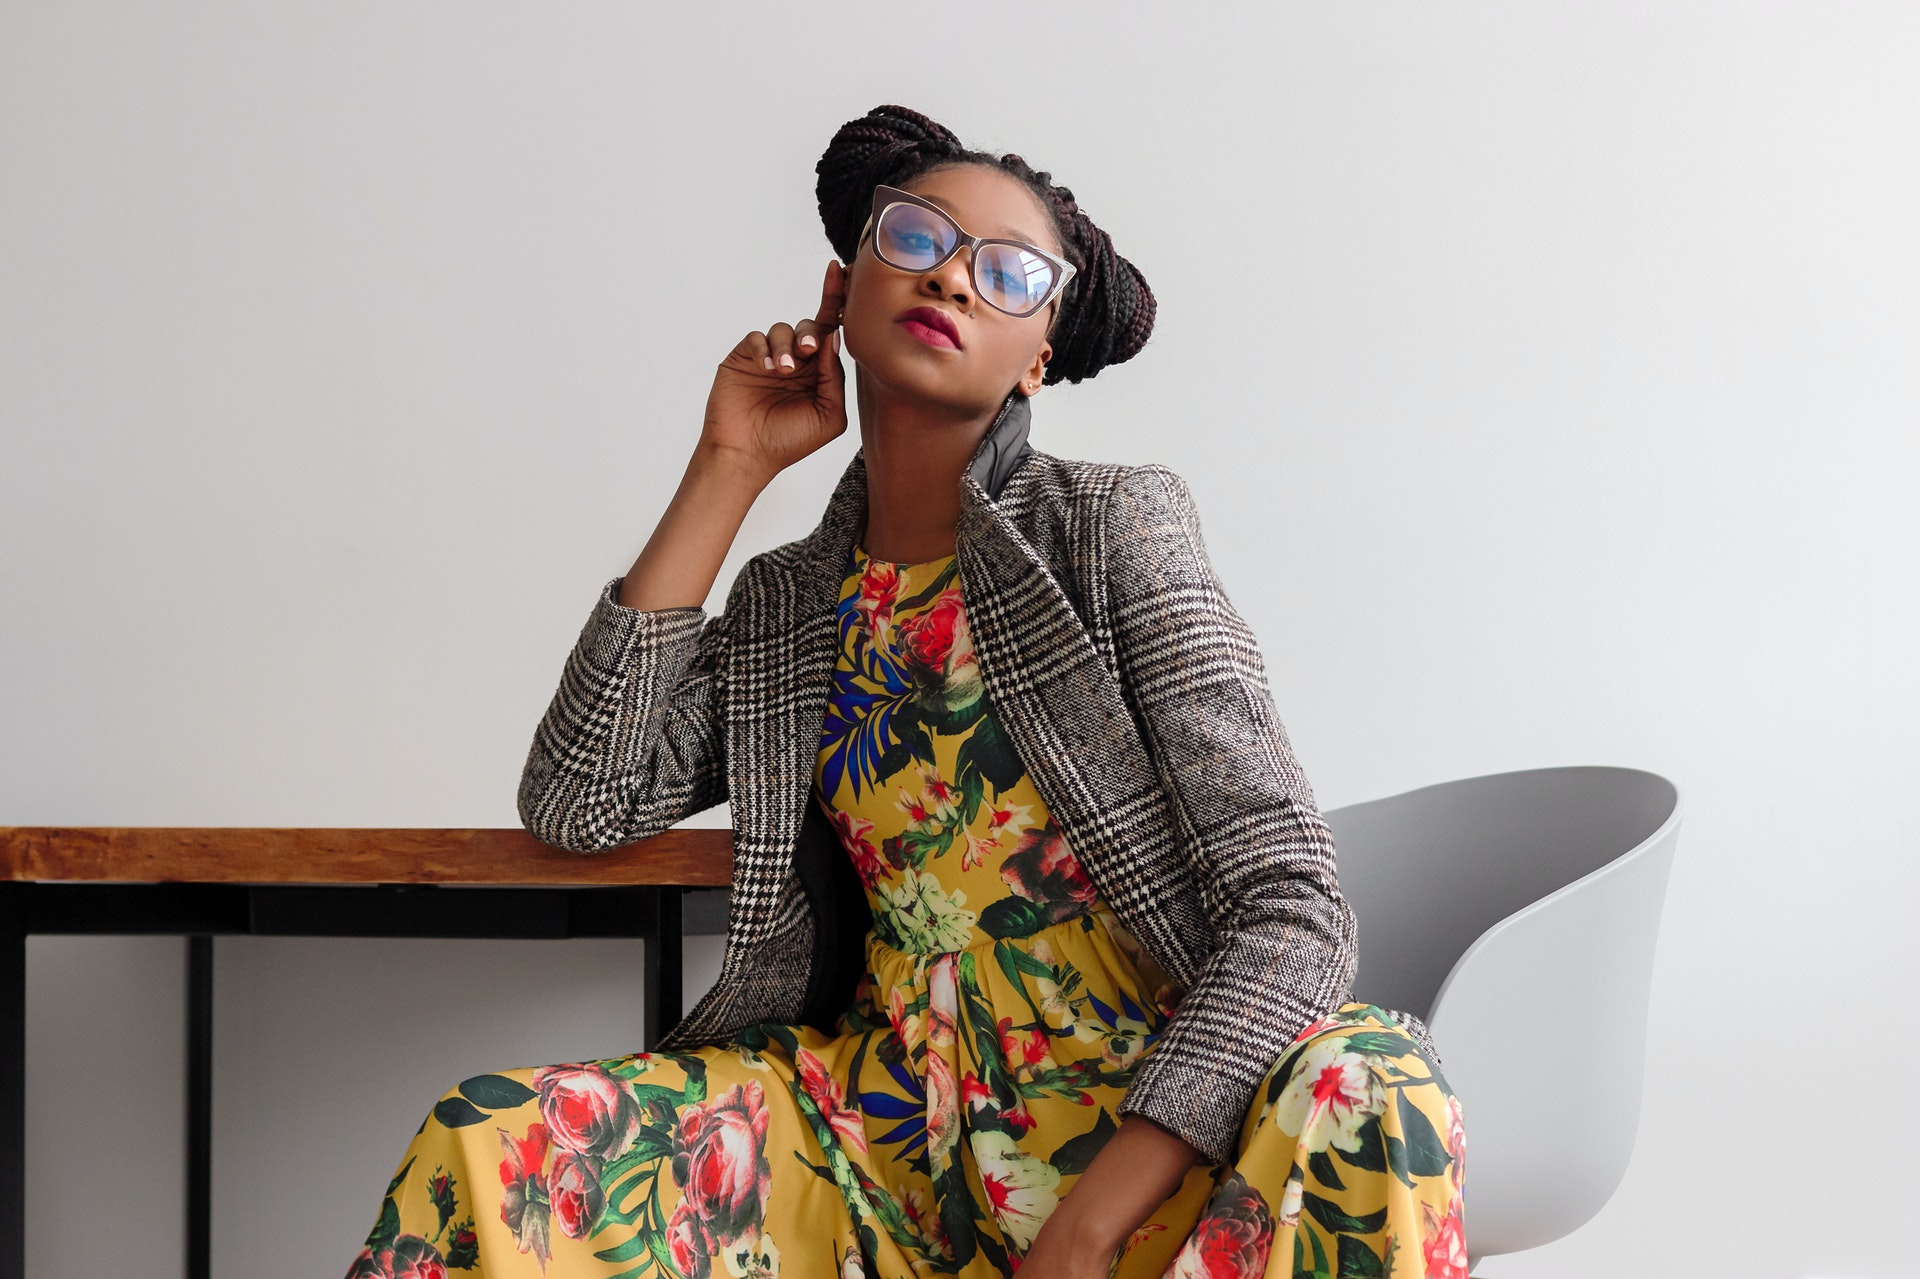
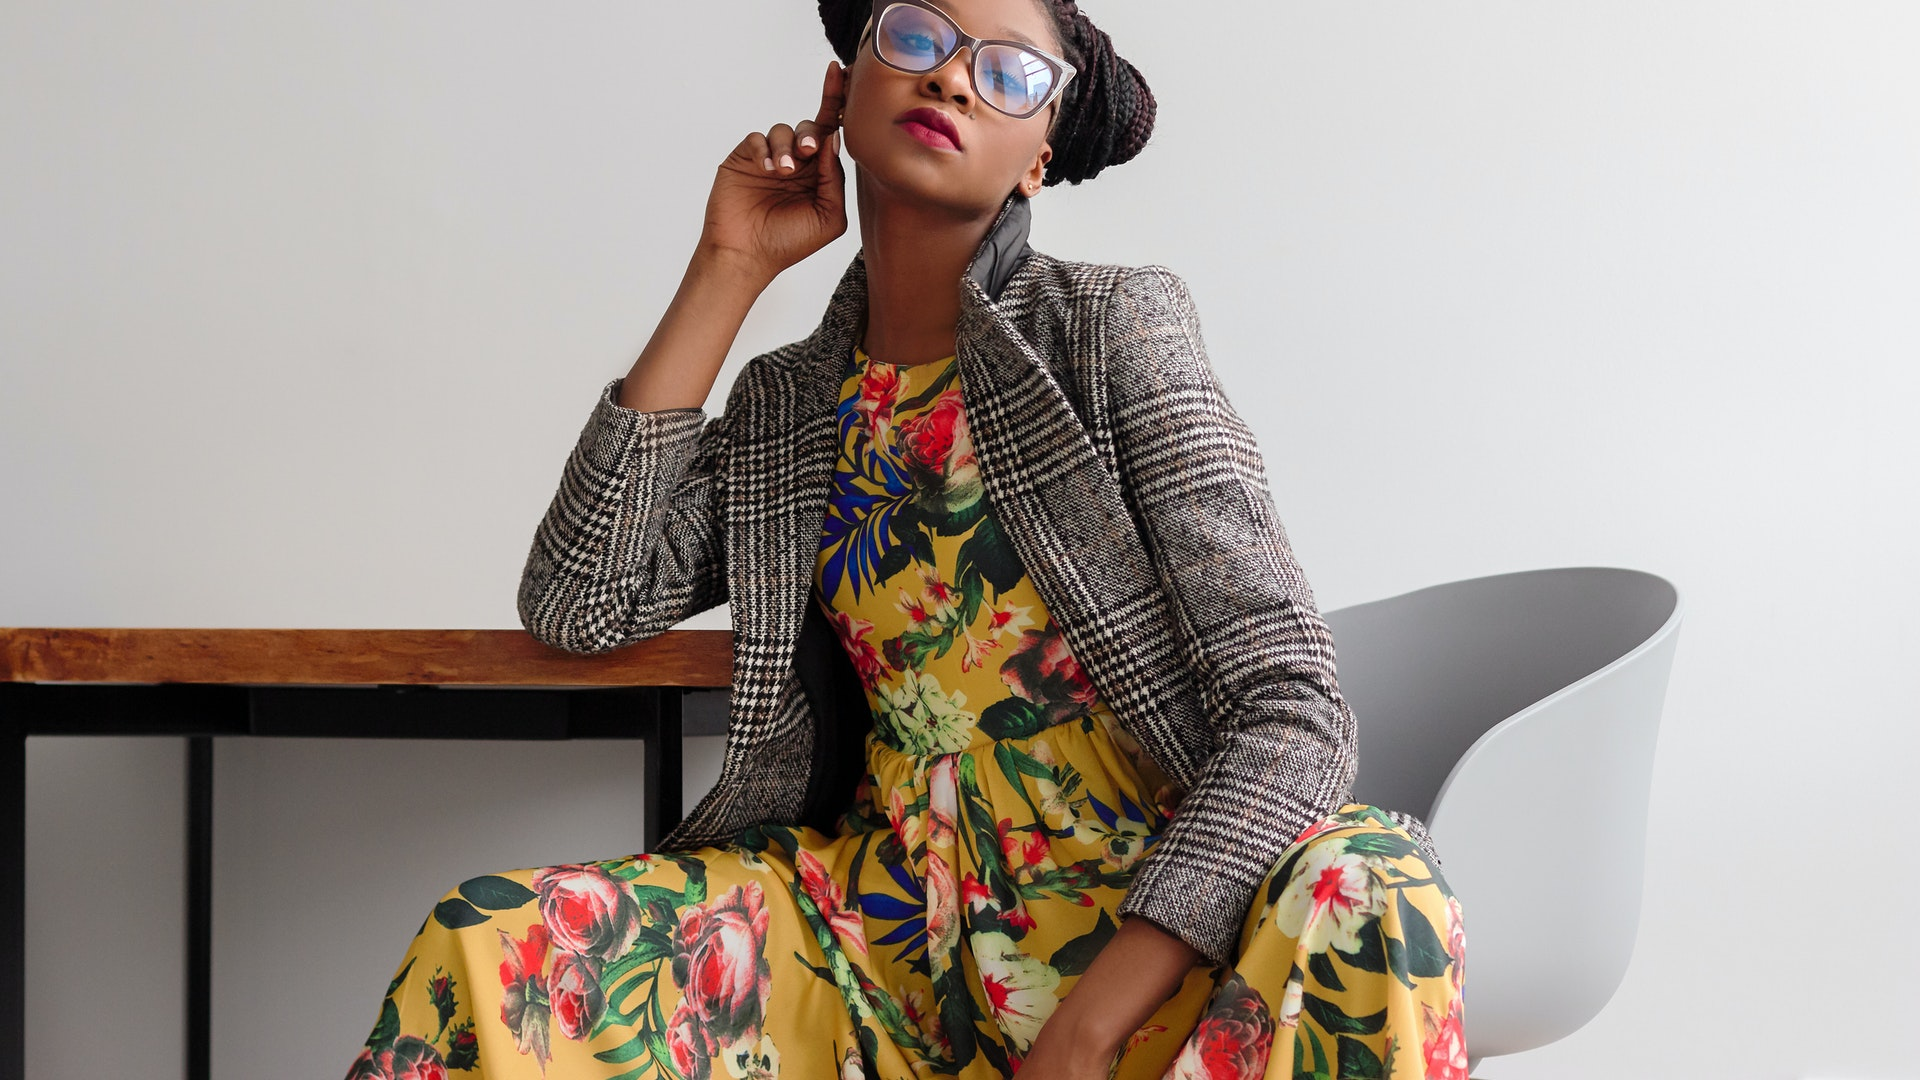
13 aprilie

diff --git a/css/stylesheet.css b/css/stylesheet.css
@@ -10,6 +10,13 @@ p{
     margin:0;
 }
 
+.container {
+    height: 100%;
+    display: grid;
+    grid-template-rows: 8% 92%;
+}
+
+
 /* NAVBAR_______________________________________________________________ */
 
 .navbar{
@@ -61,78 +68,6 @@ p{
     color:black;
 }
 /* SLIDE-SHOW__________________________________________________________ */
-/*
-slider {
-    display: block;
-    width: 100%;
-    height: calc(100vh - 63px);
-    background: whitesmoke;
-    overflow: hidden;
-    position: absolute;
-}
-
-slider > * {
-    position: absolute;
-    display: block;
-    width: 100%;
-    height: calc(100vh - 63px);
-    background: whitesmoke;
-    animation:  12s slide infinite;
-    overflow: hidden;
-}
-
-slide:nth-child(1){
-    left: 0%;
-    animation-delay: -1s;
-    background-image: url("../images/slide1.jpg");
-    background-size: cover;
-    background-position: center;
-}
-
-slide:nth-child(2){
-    animation-delay: 6s;
-    background-image: url("../images/slide2.jpg");
-    background-size: cover;
-    background-position: center;
-}
-
-slide:nth-child(3){
-    left: 0%; 
-    animation-delay: 13s;
-    background-image: url("../images/slide3.jpg");
-    background-size: cover;
-    background-position: center;
-}
-
-slide p{
-    position: absolute;
-    font-family: Georgia, serif;
-    font-size: 3vw;
-    text-align: center;
-    display: inline-block;
-    width: 100%;
-    top: 50%;
-    left: 50%;
-    transform: translate(-50%,-50%);
-    color: black;
-}
-
-slide button{
-    position: absolute;
-    top: 85%;
-    left: 50%;
-    transform: translate(-50%,-50%);
-    background-color: cadetblue;
-}
-
-@keyframes slide {
-    0% { left: 100%; width: 100%; }
-    5% { left: 80%; }
-    25% { left: 50%; }
-    30% { left: 30%; width: 100%; }
-    50% { left: 15%;}
-    100% { left: 0%; width: 100%; }
-}*/
 
 .slider {
     overflow: hidden;
@@ -141,39 +76,48 @@ slide button{
 .slider figure{
     position: relative;
     width: 500%;
-    height: calc(100vh - 63px);
+    /* height: calc(100vh - 63px); */
     margin:0;
     left:0;
-    animation: 40s slider infinite;
+    /* animation: 40s slider infinite; */
+    
 }
 
 .slider figure div{
     position: relative;
     /* height: calc(100vh - 63px); */
-    /* height: auto; */
-    height: calc(100vh -63px);
+    height: 92%;
 }
 
 .slide img{
-    max-width: 100%;
-    object-fit: scale-down;
+    /* max-width: 100%;  */
+    width: auto;
+    height: 100%;
+    object-fit: cover;
 }
 
 .slide button{
     position: absolute;
-    top:95%;
+    top:85%;
     left:50%;
     transform: translate(-50%,-50%);
+    font-style: normal;
+    /* font-variant: small-caps; */
+    font-weight: bold;
+    padding: 0.8em 2em;
 }
 
 .slide p{
-    position: absolute;
-    top:50%;
+    /* position: absolute; */
+    top:45%;
     left:50%;
     transform: translate(-50%,-50%);
     font-weight: bold;
-    font-size: 6vw;
+    font-size: 5vw;
     color:whitesmoke;
+    font-style: normal;
+    font-variant: small-caps;
+    font-family: Georgia, serif;
 }
 
 .slider figure div{
@@ -202,4 +146,11 @@ img{
     object-fit: contain;
     object-position: center;
     padding:0;
+} */
+
+/* 
+@media screen and (min-width: 1280px){
+    .slide button{
+        top:65%;
+    }
 } */

diff --git a/html/index.html b/html/index.html
@@ -7,6 +7,7 @@
         <link href="../fontawesome/css/all.css" rel="stylesheet">
     </head>
     <body>
+       <div class="container">
         <!--NAVBAR___________________________________________________-->
         <div class="navbar">
           <div class="sidemenu">
@@ -38,31 +39,33 @@
           <figure>
             <div class="slide"> 
               <img src="../images/slide1.jpg">
-              <p class="w_txt"> WOMEN </p>
+              <p> WOMEN </p>
+              <button> View more</button>
+              
+            </div>
+            <div class="slide"> 
+              <img src="../images/slide1.jpg">
+              <p> MEN</p>
               <button> View more</button>              
             </div>
             <div class="slide"> 
-              <img src="../images/slide2.jpg">
-              <p class="m_txt"> MEN</p>
+              <img src="../images/slide1.jpg"> 
+              <p> KIDS</p>
               <button> View more</button>              
             </div>
             <div class="slide"> 
-              <img src="../images/slide3.jpg"> 
-              <p class="k_txt"> KIDS</p>
-              <button> View more</button>              
+              <img src="../images/slide1.jpg">
+              <p> MEN</p>      
+              <button> View more</button>     
             </div>
             <div class="slide"> 
-              <img src="../images/slide2.jpg">
-              <p class="m_txt"> MEN</p>         
-              <button> View more</button>              
-            </div>
-            <div class="slide"> 
-              <img src="../images/slide1.jpg">  
-              <p class="w_txt"> WOMEN </p>
+              <img src="../images/slide1.jpg">
+              <p> WOMEN </p>
               <button> View more</button>                
             </div>          
           </figure>
         </div>
+      </div>
         <!--FOOTER_____________________________________________________-->
         <div class="footer">
         </div>        
